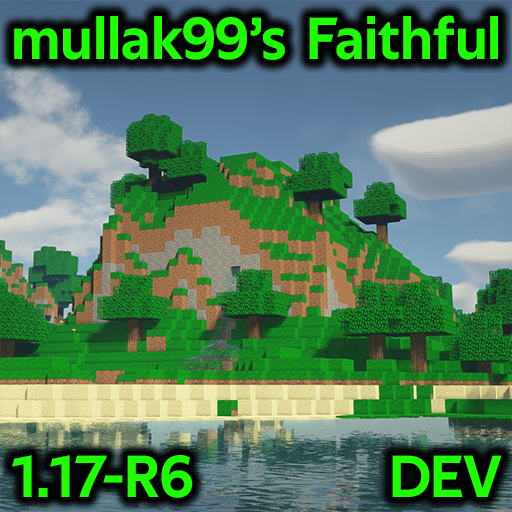
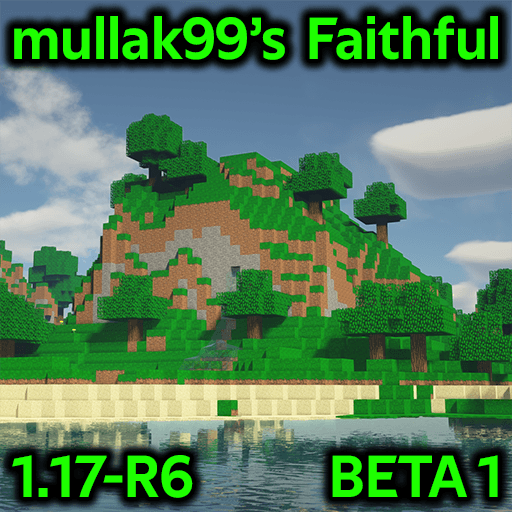
MC1.17-R6_BETA1
- No changes, just bumped the version to a beta

Changed region(s): [[0.625, 0.8438, 1.0, 1.0]]

diff --git a/README.md b/README.md
@@ -1,6 +1,6 @@
 # mullak99's Faithful 32x
 
-**Current Branch Version:** _MC1.17-R6_DEV211023-1_  
+**Current Branch Version:** _MC1.17-R6_BETA1_  
 
 ## Official Links
 
